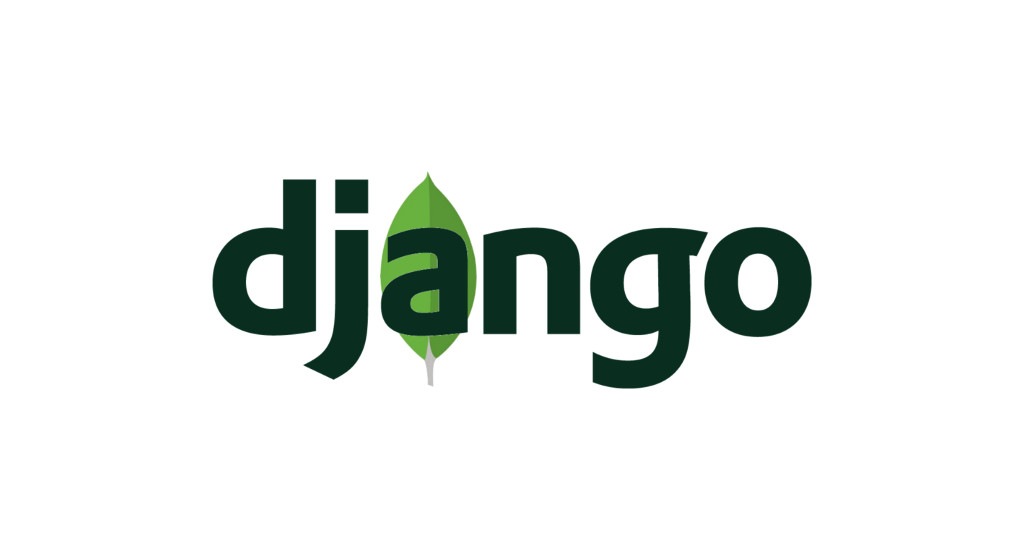
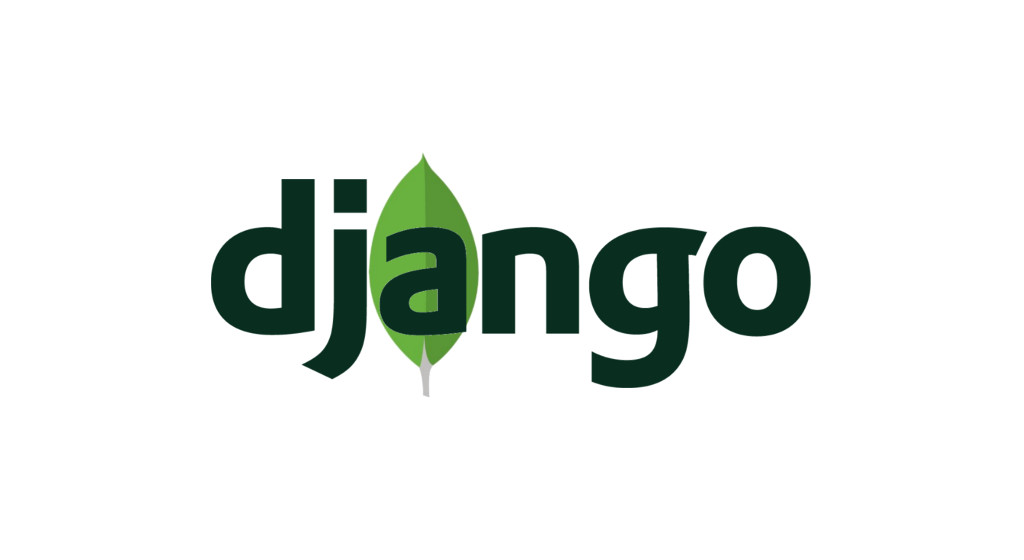
Documentation updated

diff --git a/docs/assets/css/main.scss b/docs/assets/css/main.scss
@@ -8,8 +8,8 @@
 @import "minimal-mistakes"; // main partials
 
 .page__hero--overlay .page__title, .page__hero--overlay .page__lead {
-    color: rgb(0, 0, 0);
-    text-shadow: None
+    color: white;
+   // text-shadow: None
 }
 
 .page__hero--overlay {

diff --git a/docs/docs/home.md b/docs/docs/home.md
@@ -4,7 +4,7 @@ layout: splash
 title: "Djongo"
 excerpt: "A Django and MongoDB connector"
 header:
-    overlay_image: /assets/images/landing-banner.jpg
+    overlay_image: /assets/images/landing-banner2.jpg
 
 punchline:
   - excerpt: Use MongoDB as a backend database for your Django project, without changing the Django ORM. 
